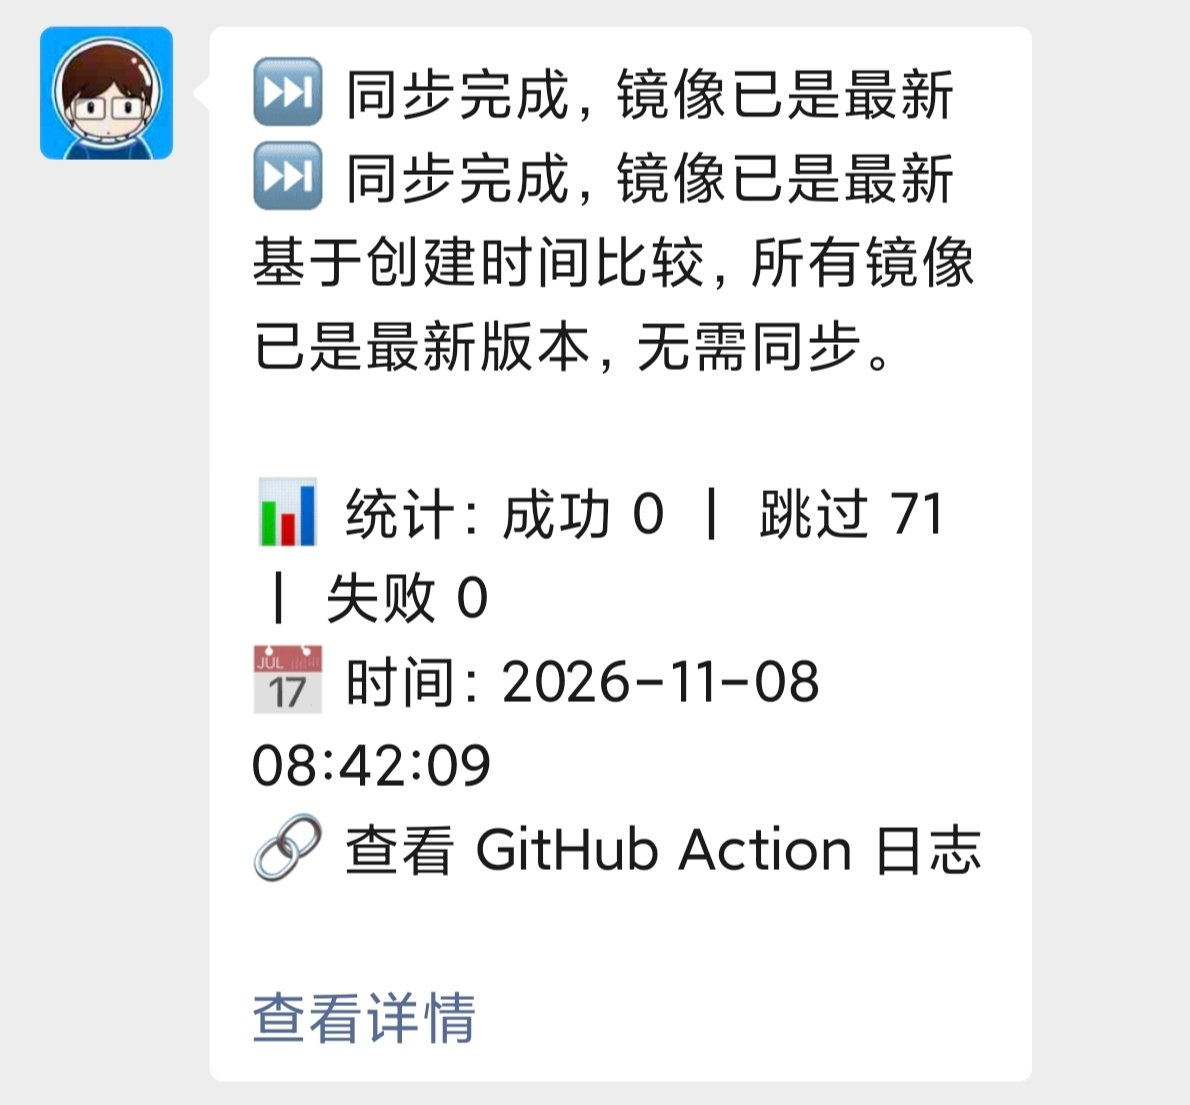
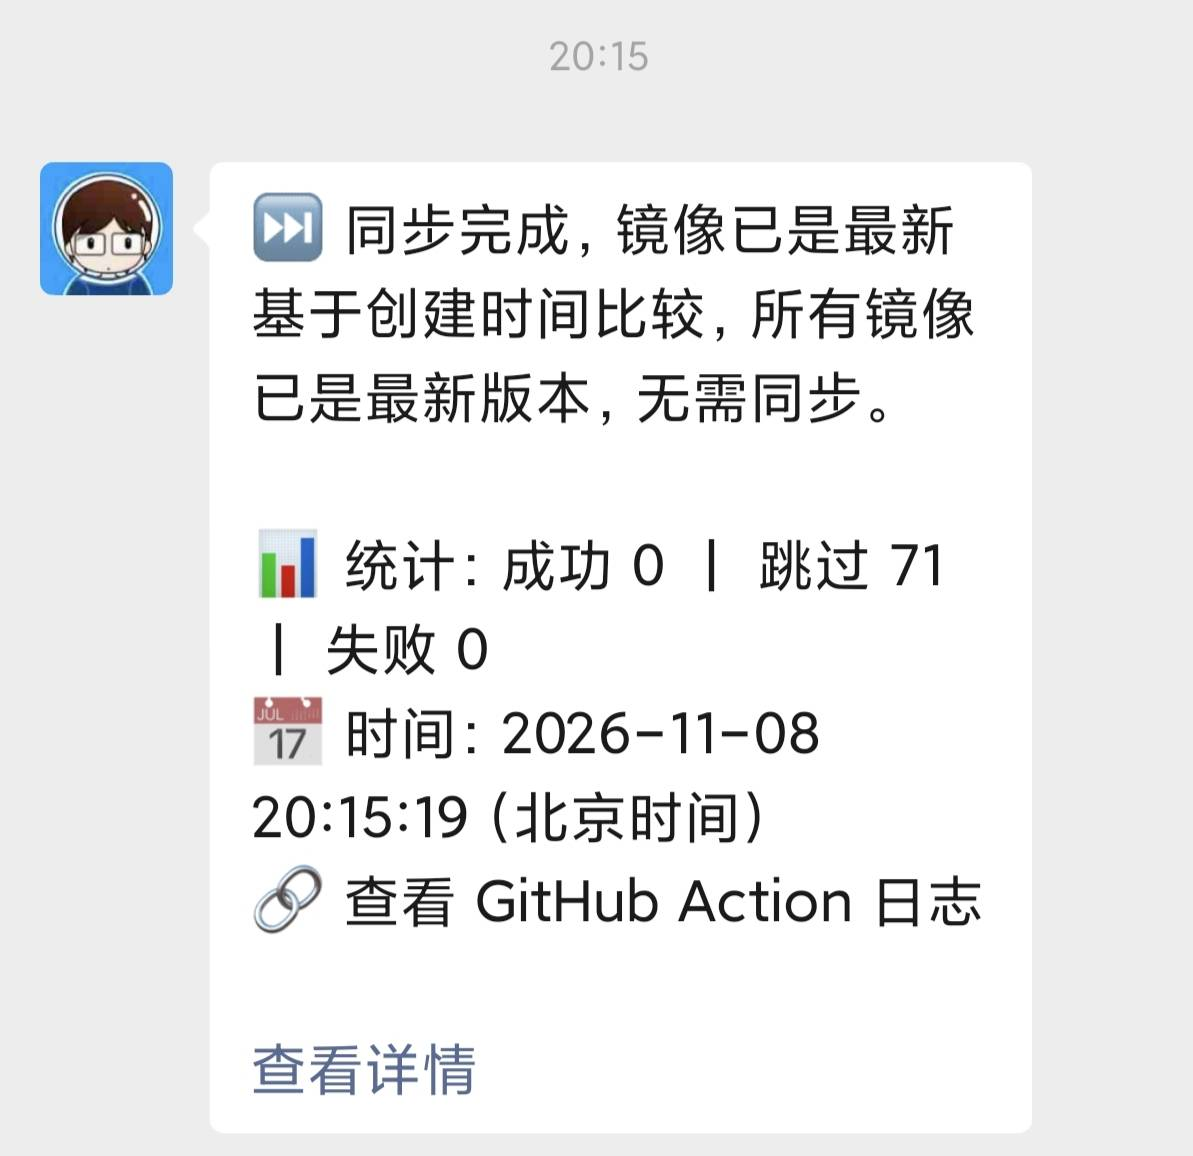
docs: replace notification preview with new-format screenshot

diff --git a/CHANGELOG.md b/CHANGELOG.md
@@ -11,7 +11,7 @@
 - 通知步骤新增一行日志 `🕐 通知时间（北京时间）: ...`，便于在 Action 日志里直接核对推送内容，不打印 SendKey / URL。
 
 ### 📝 文档 (Docs)
-- README 通知章节补「时间为北京时间」；通知预览下方改为说明「截图为 2026-11-08 修正前画面」（旧截图里标题重复、时间为 UTC），不再把重复标题表述为 Server酱 的正常行为；`doc/serverchan-notify.jpg` 暂保留，待收到新格式通知后替换。
+- README 通知章节补「时间为北京时间」；通知预览说明改写为当前实现（标题只渲染一次、北京时间、全跳过时清单为空），不再把重复标题表述为 Server酱 的正常行为；`doc/serverchan-notify.jpg` 已用 run `42478865178` 的真实通知截图替换（1193×1156，78 KB），并去掉「修正前 / 待替换」措辞。
 - 已知限制补注：Server酱 会员不受免费版 5 条/天额度限制。
 
 ### ✅ 验证记录
@@ -69,7 +69,7 @@
 ### 📝 文档 (Docs)
 - README：Secrets 表用 `SERVERCHAN_SENDKEY` 替换 `WEBHOOK_URL`；通知章节改写为 Server酱（两种 SendKey、Markdown 正文、5 条/天额度）；移除已修正的「定时注释有误」已知限制。
 - README（合并后补充）：明确正文只列新增 / 失败、跳过项仅在统计体现；新增「每日失败巡检」章节，说明自动化巡检如何兜住「假绿」。
-- README 通知预览改用**真实 Server酱 截图** `doc/serverchan-notify.jpg`（1190×1105，103 KB），替换重写前的旧 Webhook 通知外链图与纯文字示例；图片随仓库走，不再依赖 GitHub `user-attachments` 附件。
+- README 通知预览改用**真实 Server酱 截图** `doc/serverchan-notify.jpg`（1190×1105，103 KB），替换重写前的旧 Webhook 通知外链图与纯文字示例；图片随仓库走，不再依赖 GitHub `user-attachments` 附件。（该截图自 v2.1.2 起已换成新格式通知，见上方。）
 - 巡检 automation prompt 同步更新：移除已废弃的「飞书 Webhook 通知步骤」排查项，改为 Server酱；删除 rsshub `blob type invalid` 的「长期已知问题」标注（PR #2 已修复，复发按回归处理）；补充通知明细日志的核对方式。
 
 ### ✅ 验证记录

diff --git a/README.md b/README.md
@@ -137,11 +137,11 @@ ACR 个人版上传 zstd 层会返回 `unknown: blob type invalid`。上游 `diy
 
 正文是 Markdown（Server酱 的 `desp` 字段），**只列 ✨ 新增与 🚨 失败镜像**；`⏭` 跳过项不逐条推送，只在统计里体现一次，避免全跳过时刷出几十行。此外还有成功 / 跳过 / 失败统计、**北京时间**时间戳（UTC+8，Action 日志也会打印便于核对）和**可点击的 GitHub 日志链接**。标题只由 `title` 参数显示一次，正文不再重复。
 
-**通知预览**（全跳过场景，旧截图时间 2026-11-08 08:42 UTC，run `42463572879`）：
+**通知预览**（全跳过场景，2026-11-08 20:15 北京时间，run `42478865178`）：
 
-<img src="doc/serverchan-notify.jpg" width="380" alt="Server酱 微信通知预览（修正前）">
+<img src="doc/serverchan-notify.jpg" width="380" alt="Server酱 微信通知预览">
 
-> 截图是 **2026-11-08 修正前**的画面：当时标题显示两次、时间戳为 UTC。现已改为标题只显示一次、时间用北京时间；run `42478865178` 已产生新格式通知，截图待替换。
+> 标题由 `title` 参数渲染一次，正文从 `$CONTENT` 开始，不再重复标题；时间戳为北京时间（UTC+8），与 Action 日志里的「🕐 通知时间」一致。全跳过时清单为空，跳过数量看统计行。
 
 有新增或失败时，正文才会出现 `- ✨ xxx` / `- 🚨 xxx (同步失败)` 列表项。Action 日志会同步打印「📋 通知明细（仅新增 / 失败）」便于核对；完整 `SYNC_RESULT`（含全部跳过项）仍保留在日志中供排查。
 
